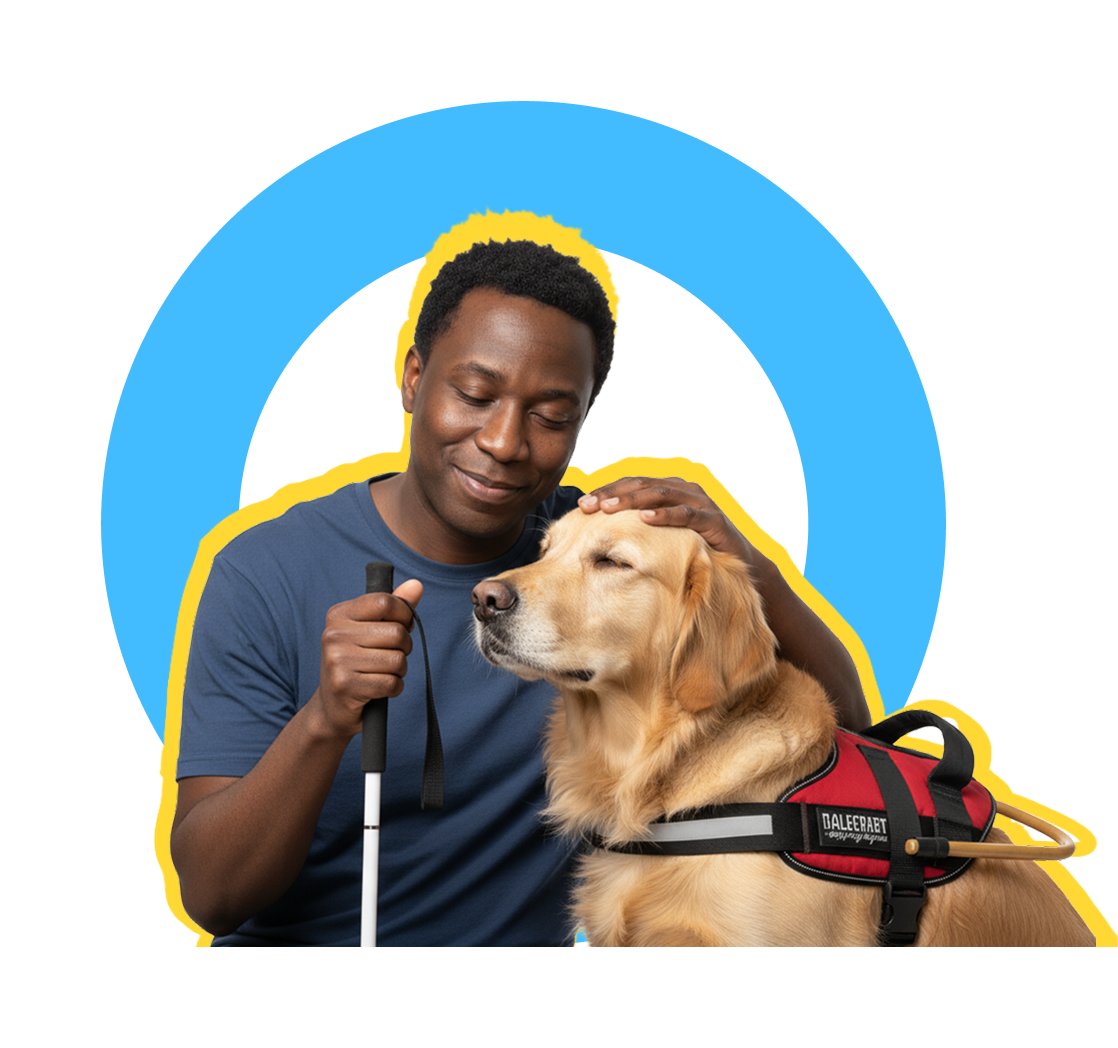
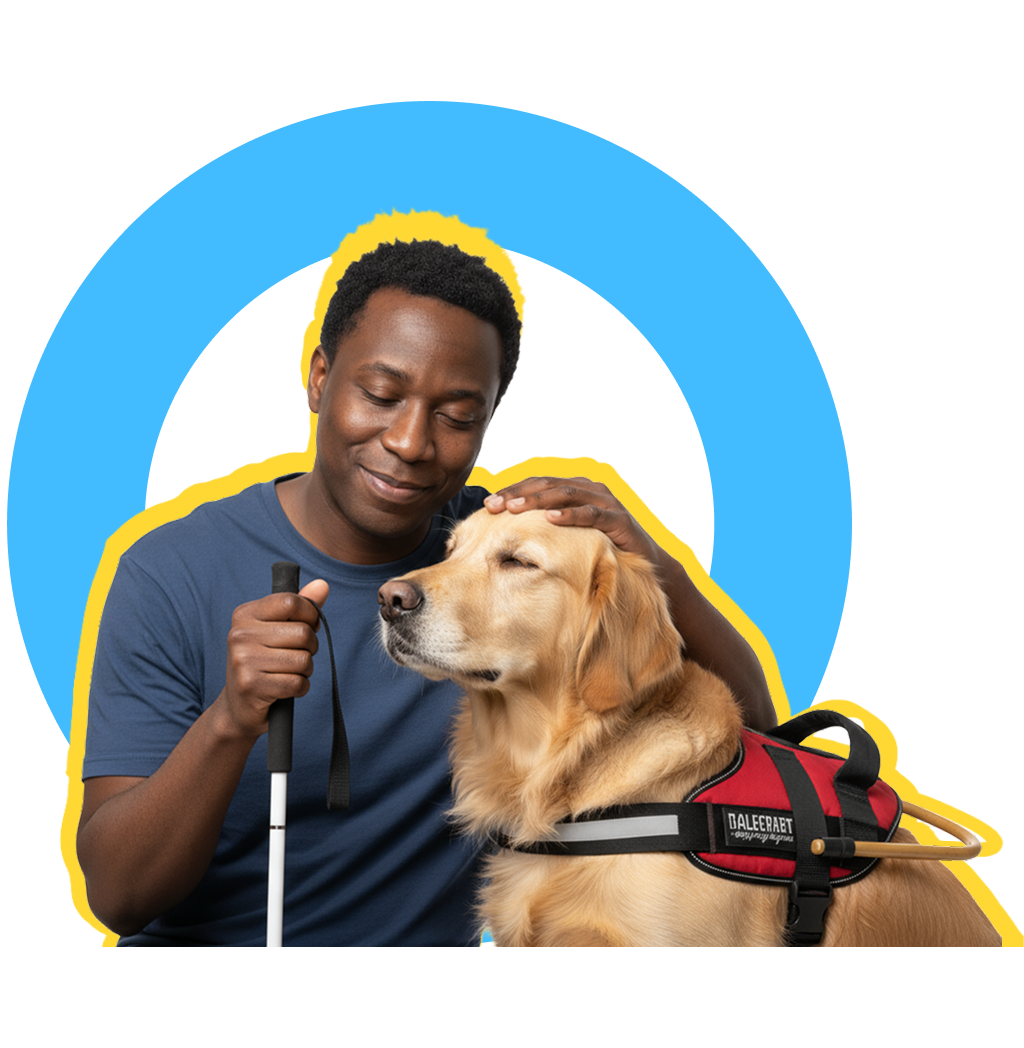
Adiciona melhorias

diff --git a/pages/perfil.html b/pages/perfil.html
@@ -13,7 +13,9 @@
   <header class="header">
     <div class="header-container">
       <div class="logo-header">
-        <img src="./../img/logo_laranja.svg" alt="Logo Adote Mais">
+        <a href="./../index.html">
+          <img src="./../img/logo_laranja.svg" alt="Logo Adote Mais">
+        </a>
       </div>
 
       <div class="hamburguer" id="btn-mobile" aria-label="Abrir Menu">
@@ -31,7 +33,7 @@
       </nav>
 
       <div class="btn-perfil-user">
-        <a href="./perfil.html"><img src="./../img/avatar-user.png" alt="Imagem do usuário"></a>
+        <a href="./perfil.html" class="btn-perfil-img"><img src="./../img/avatar-user.png" alt="Imagem do usuário"></a>
       </div>
 
       <!-- Menu Mobile -->
@@ -44,8 +46,8 @@
           <li><a href="./profissionais_parceiros.html">Profissionais Parceiros</a></li>
         </ul>
 
-        <div class="btn-mobile-user">
-          <a href="./perfil.html"><img src="./../img/avatar-user.png" alt="Imagem do usuário"></a>
+        <div class="btn-mobile-user" id="perfil-img">
+          <a href="./perfil.html" class="btn-perfil-img"><img src="./../img/avatar-user.png" alt="Imagem do usuário"></a>
         </div>
       </nav>
 
@@ -295,6 +297,7 @@
 
   <script src="./../js/perfil.js"></script>
   <script src="https://kit.fontawesome.com/862ad73f5c.js" crossorigin="anonymous"></script>
+  <script src="./../js/geral.js"></script>
 </body>
 
 </html>

diff --git a/css/index.css b/css/index.css
@@ -1,4 +1,5 @@
 @import url(./reset.css);
+@import url(./userway.css);
 
 a {
   text-decoration: none;
@@ -12,6 +13,7 @@ ul {
 body {
   background-color: #fbfbfb;
   color: #333333;
+  overflow-x: hidden;
 }
 
 /* Header */
@@ -470,7 +472,6 @@ button:hover {
   margin: 0 auto;
   padding: 20px;
   position: relative;
-  overflow: hidden;
 }
 
 /* Forma amarela */
@@ -478,9 +479,10 @@ button:hover {
   content: "";
   position: absolute;
   inset: 0;
-  width: 380px;
-  height: 380px;
+  width: 500px;
+  height: 550px;
   top: 20%;
+  left: -15%;
   background-image: url("./../img/formaA.svg");
   background-size: contain;
   background-repeat: no-repeat;
@@ -691,6 +693,11 @@ button:hover {
     max-width: 80%;
   }
 
+  /* Forma amarela */
+  .depoimento::before {
+    top: 15%;
+  }
+
   /* Forma laranja */
   .depoimento::after {
     top: 65%;
@@ -865,17 +872,15 @@ button:hover {
 
   .depoimento::before {
     position: absolute;
-    width: 320px;
-    height: 380px;
-    top: 100px;
-    left: -10px;
+    width: 400px;
+    height: 400px;
+    top: 10%;
   }
 
   /* Forma laranja  */
   .depoimento::after {
     position: absolute;
     width: 560px;
-    height: 1000px;
     top: 70%;
     right: -290px;
   }

diff --git a/pages/login.html b/pages/login.html
@@ -14,10 +14,13 @@
         <section>
             <div class="main-login-conteiner">
                 <div class="login-logo-conteiner">
-                    <img src="./../img/logo-azul.svg" alt="Logo Adote Mais">
+                    <a href="./../index.html">
+                        <img src="./../img/logo-azul.svg" alt="Logo Adote Mais">
+                    </a>
                 </div>
                 <div class="login-forms-conteiner">
-                    <h1><span class="detalhe-titulo"><img src="./../img/pata-azul.svg" alt="Patinha azul"></span>Login</h1>
+                    <h1><span class="detalhe-titulo"><img src="./../img/pata-azul.svg" alt="Patinha azul"></span>Login
+                    </h1>
                     <form action="" class="forms">
                         <div class="item-email-user">
                             <label for="emailUser" class="item-label">E-mail</label>
@@ -60,6 +63,7 @@
 
     <script src="./../js/login.js"></script>
     <script src="https://kit.fontawesome.com/862ad73f5c.js" crossorigin="anonymous"></script>
+    <script src="./../js/geral.js"></script>
 </body>
 
 </html>

diff --git a/js/geral.js b/js/geral.js
@@ -1,0 +1,20 @@
+// Espera o VLibras e o UserWay carregarem
+document.addEventListener("DOMContentLoaded", () => {
+    const vlibrasWrapper = document.querySelector("[vw-plugin-wrapper]");
+
+    if (!vlibrasWrapper) return;
+
+    // Observador de mudanças na classe
+    const observer = new MutationObserver(() => {
+        if (vlibrasWrapper.classList.contains("active")) {
+            // VLibras ABRIU → esconde UserWay
+            if (window.UserWay) UserWay.iconVisibilityOff();
+        } else {
+            // VLibras FECHOU → mostra UserWay
+            if (window.UserWay) UserWay.iconVisibilityOn();
+        }
+    });
+    // Observa qualquer alteração nas classes
+    observer.observe(vlibrasWrapper, { attributes: true, attributeFilter: ["class"] });
+});
+

diff --git a/css/sobre_nos.css b/css/sobre_nos.css
@@ -1,4 +1,5 @@
 @import url(./reset.css);
+@import url(./userway.css);
 
 a {
   text-decoration: none;
@@ -13,6 +14,11 @@ body {
   background-color: #fbfbfb;
   color: #333333;
 }
+
+/* .uai {
+  top: 35vh;
+  right: 0vw;
+} */
 
 /* Header */
 .header-container {
@@ -656,6 +662,12 @@ textarea {
   display: block;
 }
 
+/* @media (max-width: 1200px) {
+  .uai {
+    margin-left: 50%;
+  }
+} */
+
 @media (max-width: 1026px) {
   /* Footer */
   .footer-container {
@@ -669,7 +681,6 @@ textarea {
   .footer-esquerda p {
     text-align: center;
   }
-
 }
 
 @media (max-width: 990px) {
@@ -966,3 +977,9 @@ textarea {
     border-radius: 20px 20px 20px 100px;
   }
 }
+
+/* @media (max-width: 320px){
+  .uai {
+    top: 30vh;
+  }
+} */

diff --git a/pages/cadastro.html b/pages/cadastro.html
@@ -62,7 +62,7 @@
 
                             <div class="item-forms-cadastro">
                                 <label for="idadeUser" class="label-cadastro">Idade</label>
-                                <input type="number" name="idadeUser" id="idadeUser" required placeholder="18">
+                                <input type="number" name="idadeUser" id="idadeUser" required placeholder="18" min="1">
                             </div>
 
                             <div class="item-forms-cadastro">
@@ -142,6 +142,7 @@
 
     <script src="./../js/cadastro.js"></script>
     <script src="https://kit.fontawesome.com/862ad73f5c.js" crossorigin="anonymous"></script>
+    <script src="./../js/geral.js"></script>
 </body>
 
 </html>

diff --git a/pages/formulario_adocao_companheiro_ideal.html b/pages/formulario_adocao_companheiro_ideal.html
@@ -13,7 +13,9 @@
     <header class="header">
         <div class="header-conteiner">
             <div class="header-logo">
-                <img src="./../img/logo-branca-laranja.svg" alt="Logo Adote Mais">
+                <a href="./../index.html">
+                    <img src="./../img/logo-branca-laranja.svg" alt="Logo Adote Mais">
+                </a>
             </div>
             <h1 class="titulo-forms">
                 Perfil do Animal Desejado
@@ -208,6 +210,7 @@
 
     <script src="./../js/forms_adocao_ci.js"></script>
     <script src="https://kit.fontawesome.com/862ad73f5c.js" crossorigin="anonymous"></script>
+    <script src="./../js/geral.js"></script>
 </body>
 
 </html>

diff --git a/pages/formulario_adocao.html b/pages/formulario_adocao.html
@@ -13,7 +13,9 @@
     <header class="header">
         <div class="header-conteiner">
             <div class="header-logo">
-                <img src="./../img/logo-branca-laranja.svg" alt="Logo Adote Mais">
+                <a href="./../index.html">
+                    <img src="./../img/logo-branca-laranja.svg" alt="Logo Adote Mais">
+                </a>
             </div>
             <h1 class="titulo-forms">
                 Formulário de Adoção
@@ -107,6 +109,7 @@
 
     <script src="./../js/forms_adocao_dp.js"></script>
     <script src="https://kit.fontawesome.com/862ad73f5c.js" crossorigin="anonymous"></script>
+    <script src="./../js/geral.js"></script>
 </body>
 
 </html>

diff --git a/pages/formulario_adocao_estrutura_residencial.html b/pages/formulario_adocao_estrutura_residencial.html
@@ -13,7 +13,9 @@
     <header class="header">
         <div class="header-conteiner">
             <div class="header-logo">
-                <img src="./../img/logo-branca-laranja.svg" alt="Logo Adote Mais">
+                <a href="./../index.html">
+                    <img src="./../img/logo-branca-laranja.svg" alt="Logo Adote Mais">
+                </a>
             </div>
             <h1 class="titulo-forms">
                 Estrutura Residencial
@@ -137,6 +139,7 @@
 
     <script src="./../js/forms_adocao_er.js"></script>
     <script src="https://kit.fontawesome.com/862ad73f5c.js" crossorigin="anonymous"></script>
+    <script src="./../js/geral.js"></script>
 </body>
 
 </html>

diff --git a/pages/formulario_adocao_estrutura_familiar.html b/pages/formulario_adocao_estrutura_familiar.html
@@ -13,7 +13,9 @@
     <header class="header">
         <div class="header-conteiner">
             <div class="header-logo">
-                <img src="./../img/logo-branca-laranja.svg" alt="Logo Adote Mais">
+                <a href="./../index.html">
+                    <img src="./../img/logo-branca-laranja.svg" alt="Logo Adote Mais">
+                </a>
             </div>
             <h1 class="titulo-forms">
                 Estrutura familiar
@@ -190,6 +192,7 @@
 
     <script src="./../js/forms_adocao_ef.js"></script>
     <script src="https://kit.fontawesome.com/862ad73f5c.js" crossorigin="anonymous"></script>
+    <script src="./../js/geral.js"></script>
 </body>
 
 </html>

diff --git a/pages/profissionais_parceiros.html b/pages/profissionais_parceiros.html
@@ -14,7 +14,9 @@
     <header class="header">
         <div class="header-container">
             <div class="logo-header">
-                <img src="./../img/logo_laranja.svg" alt="Logo Adote Mais">
+                <a href="./../index.html">
+                    <img src="./../img/logo_laranja.svg" alt="Logo Adote Mais">
+                </a>
             </div>
 
             <div class="hamburguer" id="btn-mobile" aria-label="Abrir Menu">
@@ -240,6 +242,7 @@
     <script src=" https://cdn.userway.org/widget.js " data-account=" RmAYIi7rVF "></script>
 
     <script src="./../js/profissionais_parceiros.js"></script>
+    <script src="./../js/geral.js"></script>
 </body>
 
 </html>

diff --git a/index.html b/index.html
@@ -13,7 +13,9 @@
     <header class="header">
         <div class="header-container">
             <div class="logo-header">
-                <img src="./img/logo_laranja.svg" alt="Logo Adote Mais">
+                <a href="./index.html" class="link-logo-header">
+                    <img src="./img/logo_laranja.svg" alt="Logo Adote Mais">
+                </a>
             </div>
 
             <div class="hamburguer" id="btn-mobile" aria-label="Abrir Menu">
@@ -255,6 +257,7 @@
     <script src=" https://cdn.userway.org/widget.js " data-account=" RmAYIi7rVF "></script>
 
     <script src="./js/index.js"></script>
+    <script src="./js/geral.js"></script>
 </body>
 
 </html>
